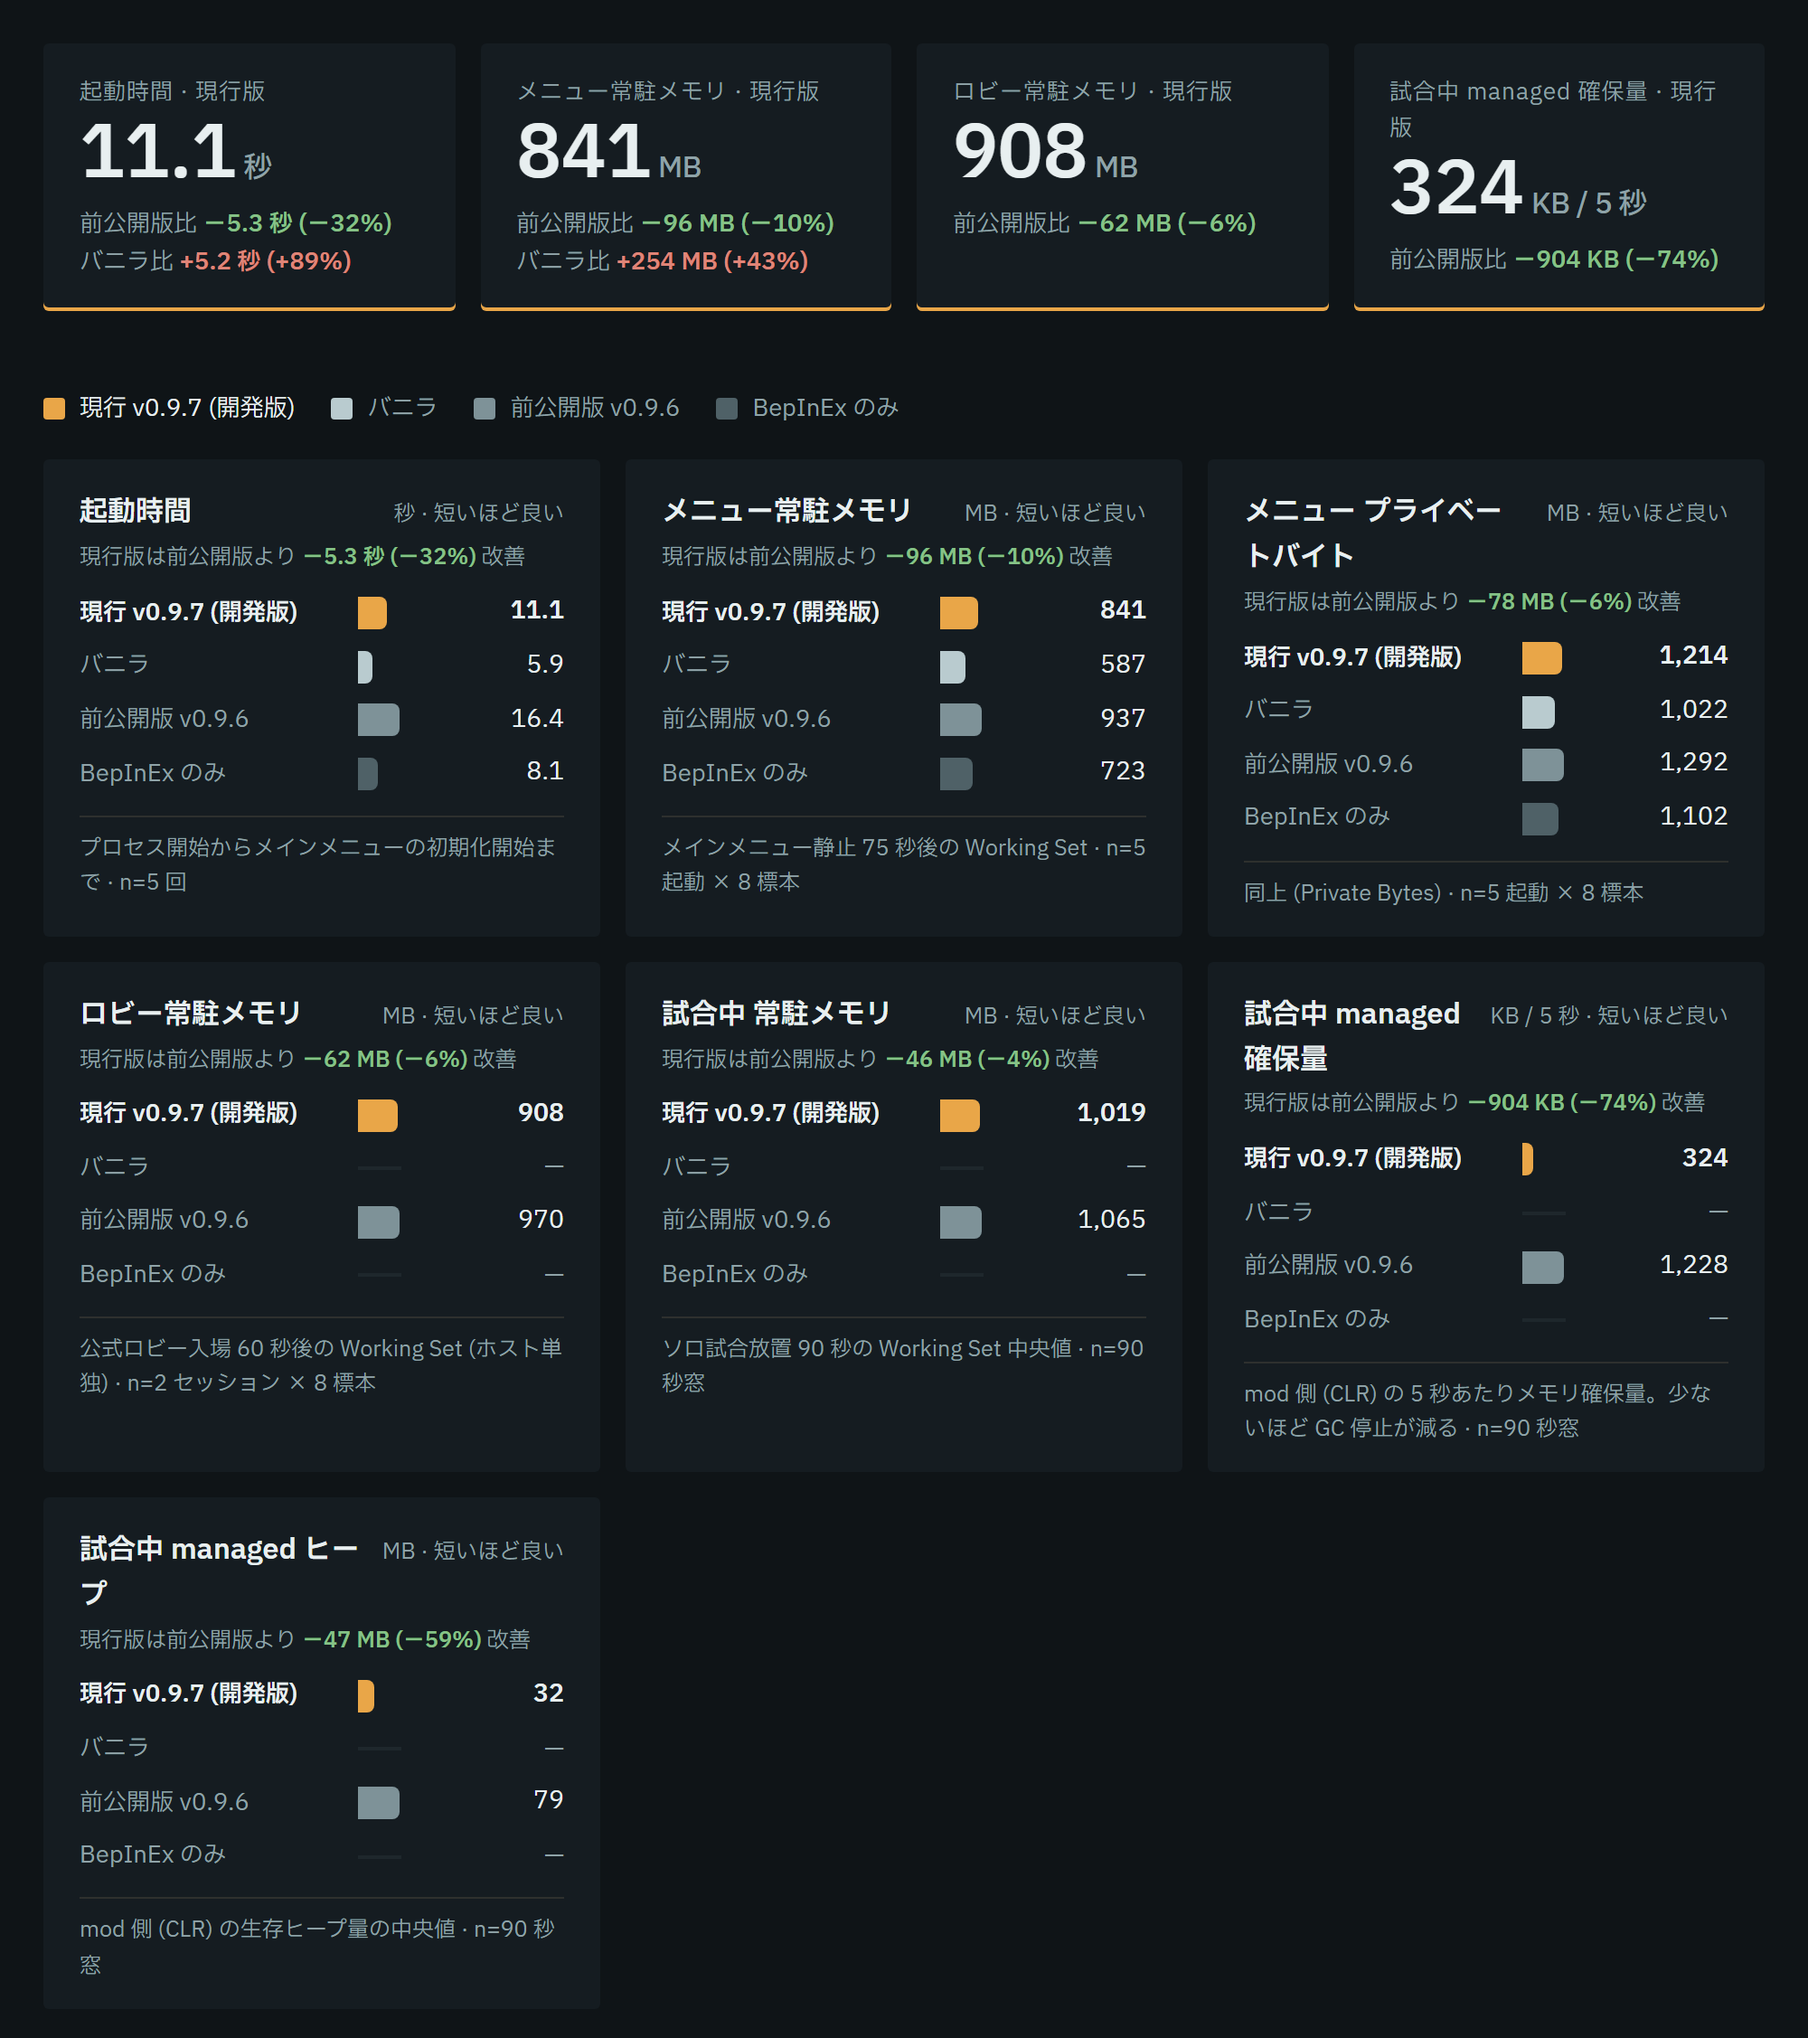
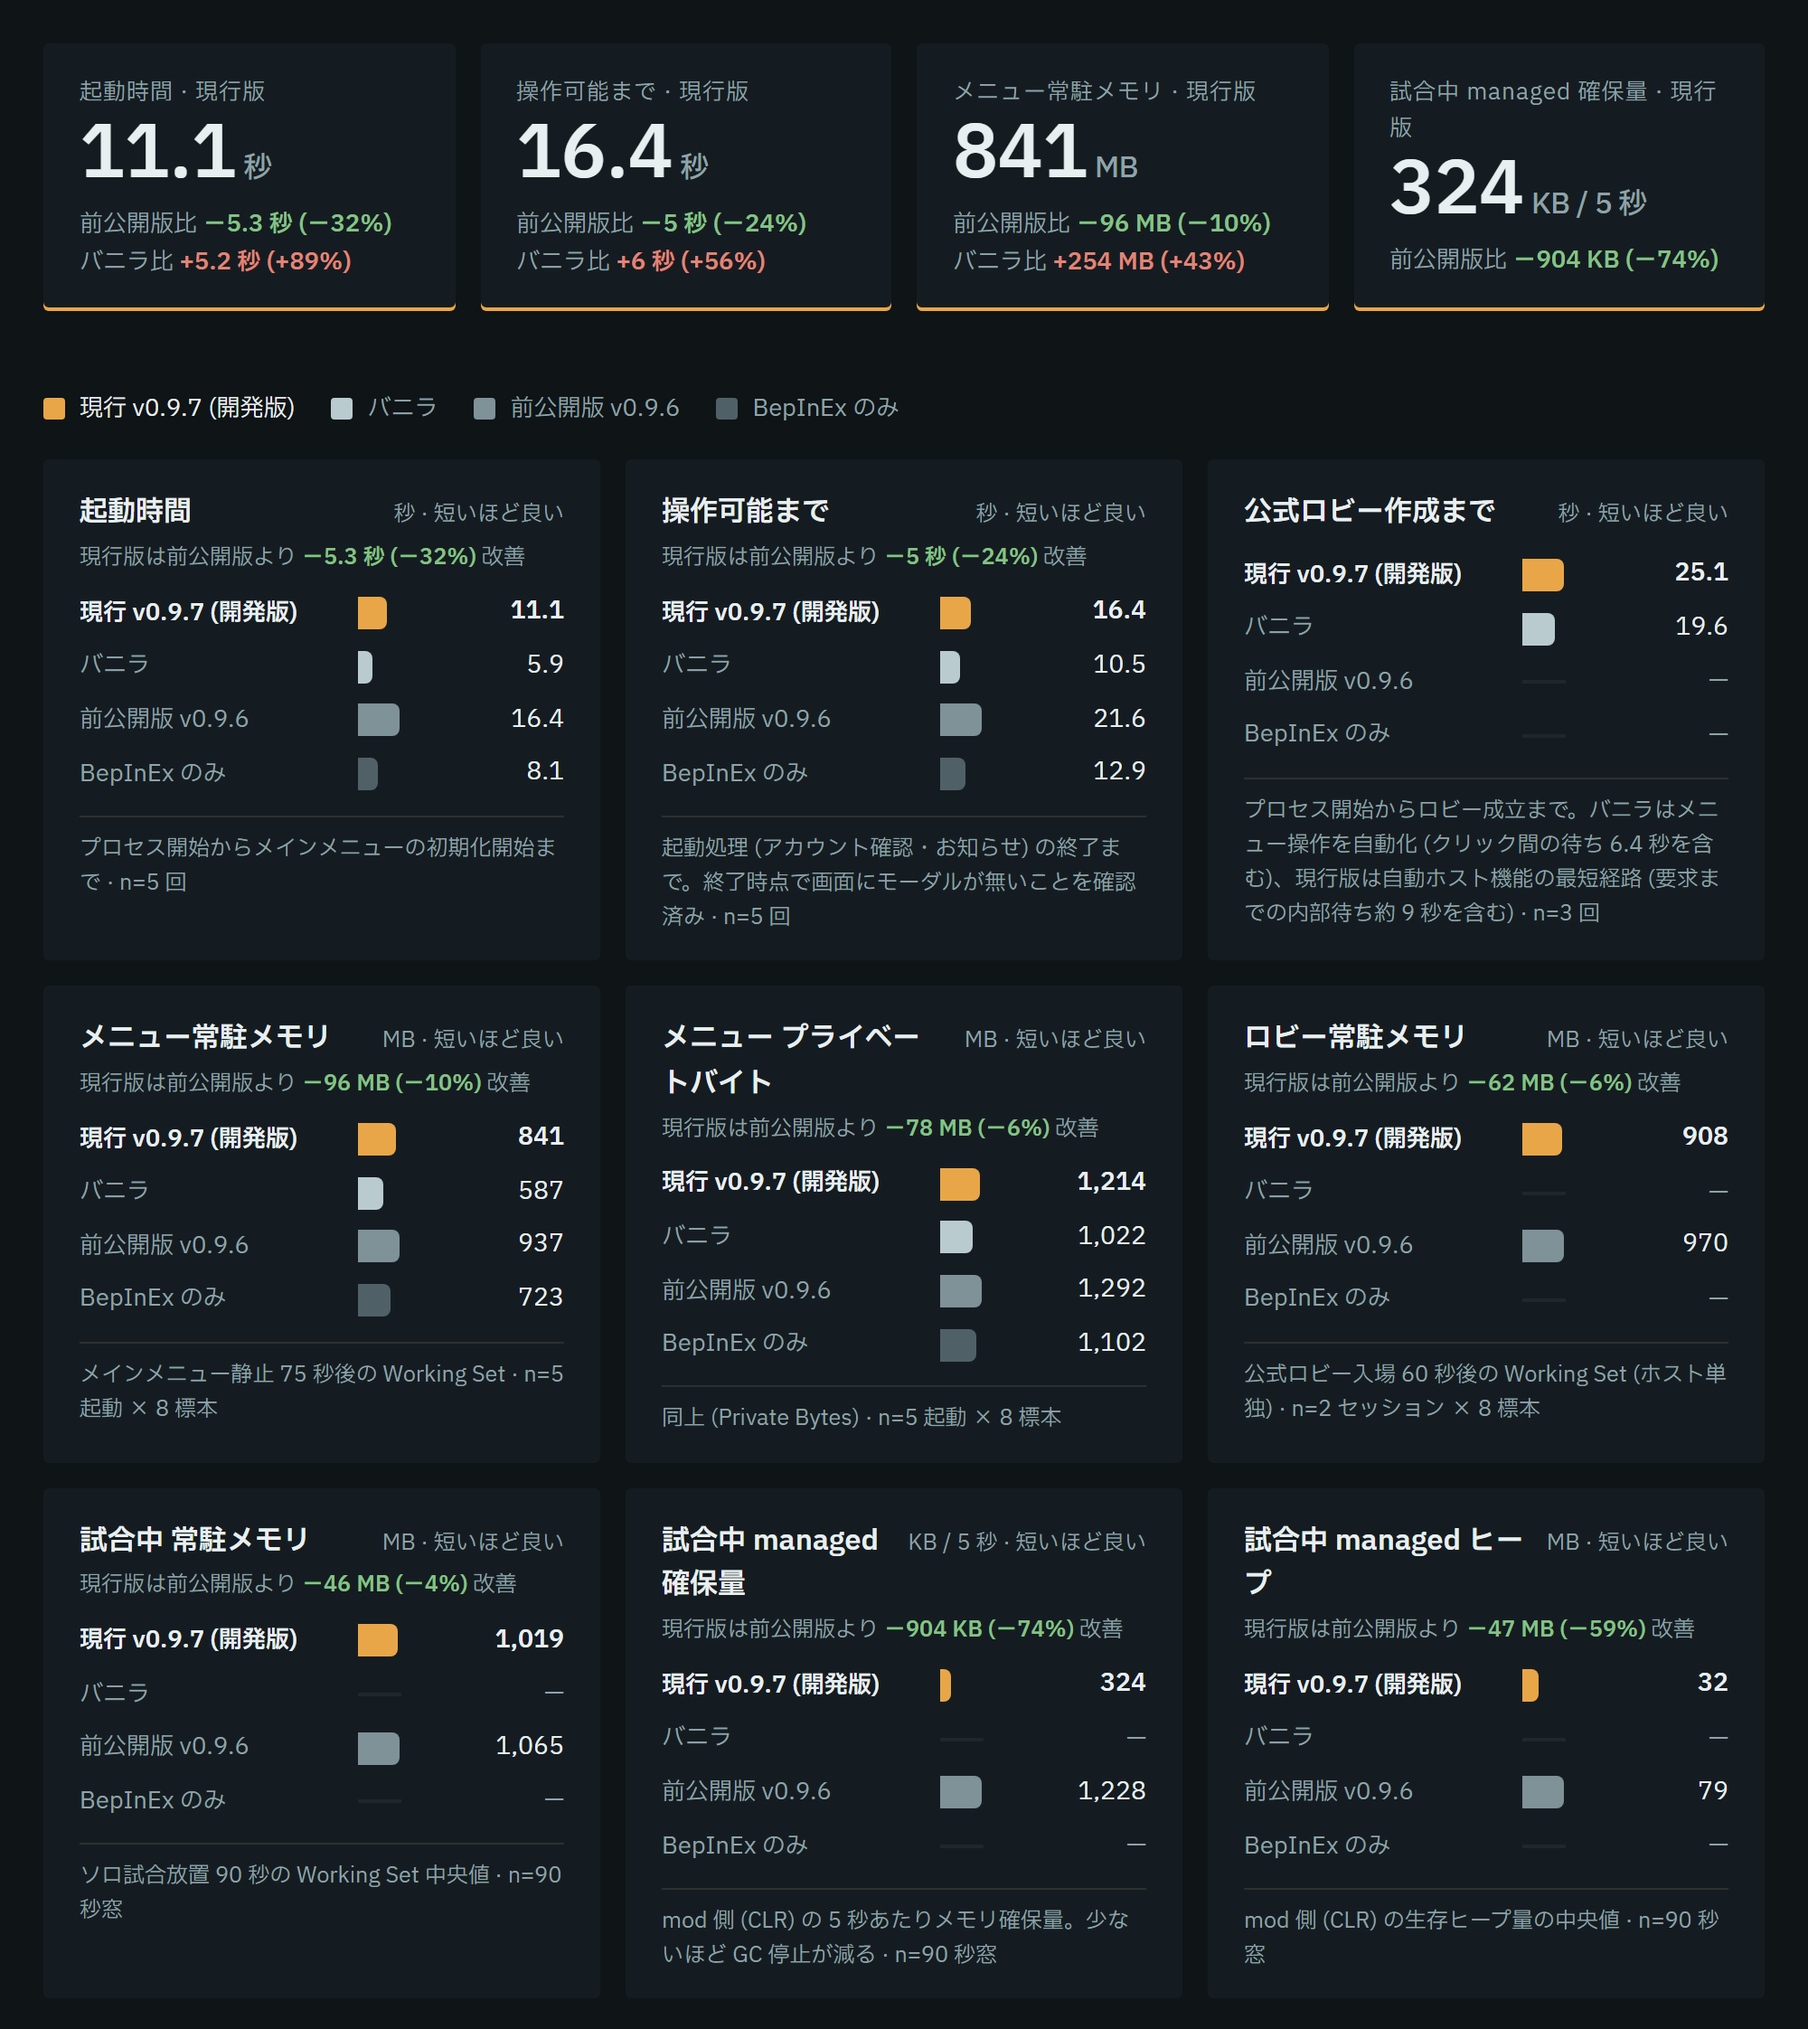
性能レポートに『操作可能まで』と『公式ロビー作成まで』の実測指標を補給しました、えっへん！

diff --git a/site/perf.html b/site/perf.html
@@ -134,6 +134,12 @@ const METRICS = [
   { key: 'boot',      group: '起動',   name: '起動時間',           unit: '秒',  fmt: v => v.toFixed(1), n: '5 回',
     desc: 'プロセス開始からメインメニューの初期化開始まで',
     v: { vanilla: 5.86, bepinex: 8.13, old: 16.36, current: 11.07 } },
+  { key: 'tti',       group: '起動',   name: '操作可能まで',         unit: '秒',  fmt: v => v.toFixed(1), n: '5 回',
+    desc: '起動処理 (アカウント確認・お知らせ) の終了まで。終了時点で画面にモーダルが無いことを確認済み',
+    v: { vanilla: 10.5, bepinex: 12.9, old: 21.6, current: 16.4 } },
+  { key: 'lobby',     group: '起動',   name: '公式ロビー作成まで',   unit: '秒',  fmt: v => v.toFixed(1), n: '3 回',
+    desc: 'プロセス開始からロビー成立まで。バニラはメニュー操作を自動化 (クリック間の待ち 6.4 秒を含む)、現行版は自動ホスト機能の最短経路 (要求までの内部待ち約 9 秒を含む)',
+    v: { vanilla: 19.6, bepinex: null, old: null, current: 25.1 } },
   { key: 'menu_ws',   group: 'メニュー', name: 'メニュー常駐メモリ', unit: 'MB', fmt: v => Math.round(v).toLocaleString(), n: '5 起動 × 8 標本',
     desc: 'メインメニュー静止 75 秒後の Working Set',
     v: { vanilla: 587, bepinex: 723, old: 937, current: 841 } },
@@ -167,6 +173,7 @@ const CONDITIONS = [
 const NOTES = [
   'Working Set は OS の裁量で ±15MB 程度揺れるため、この幅の差は有意ではありません。',
   '前公開版と現行版は Backrooms ロビー・BGM・カスタムマップなど機能を同じ既定設定で有効にしたまま計測しています。',
+  'ロビー作成までの時間はバニラの方が短く、差の大半は現行版がロビー作成要求を出すまでの内部待ちです (ログ上のサーバー応答は 0.2 秒)。',
   'バニラと BepInEx のみのロビー・試合中は、ホスト単独で自動再現する手段がないため計測対象外です。',
   '試合中のかくつき回数と FPS は前公開版の記録形式が異なり比較できないため掲載していません。',
 ];
@@ -193,7 +200,7 @@ const NOTES = [
   $('#lede').textContent = `同じ PC・同じ日に 4 条件を交互に起動して計測しました。現行版は前公開版と比べて起動が ${Math.abs(pct(b.current, b.old)).toFixed(0)}% 短く、メニューでの常駐メモリが ${Math.round(w.old - w.current)}MB 少なくなっています。バニラとの差は、mod を載せる土台 (BepInEx) の分を含めて残っています。`;
 
   // ---- tiles ----
-  const tileKeys = ['boot', 'menu_ws', 'lobby_ws', 'game_alloc'].filter(k => M[k].v.current != null);
+  const tileKeys = ['boot', 'tti', 'menu_ws', 'game_alloc'].filter(k => M[k].v.current != null);
   $('#tiles').innerHTML = tileKeys.map(k => {
     const m = M[k], cur = m.v.current;
     const dOld = fmtDelta(m, cur, m.v.old), dVan = fmtDelta(m, cur, m.v.vanilla);

diff --git a/README-EN.md b/README-EN.md
@@ -95,6 +95,8 @@ Even with the mod loaded, boot time and resident memory are kept as close to van
 | Metric | Vanilla | BepInEx only | Previous v0.9.6 | Current v0.9.7 (dev) |
 |---|---:|---:|---:|---:|
 | Boot time (s) | 5.9 | 8.1 | 16.4 | **11.1** (−33%) |
+| Time to interactive (s) | 10.5 | 12.9 | 21.6 | **16.4** (−24%) |
+| Time to hosted lobby (s) | 19.6 | — | — | 25.1 |
 | Menu resident memory (MB) | 587 | 723 | 937 | **841** (−96MB) |
 | Lobby resident memory (MB) | — | — | 970 | **908** |
 | In-game managed allocation (KB / 5 s) | — | — | 1,228 | **324** (−74%) |
@@ -102,7 +104,7 @@ Even with the mod loaded, boot time and resident memory are kept as close to van
 
 <p align="center"><img src=".github/perf-chart.png" alt="End K not performance comparison chart" width="90%"></p>
 
-Conditions and all metrics are in the **[performance report](https://waffle-ful.github.io/Aeterna-End-K-not/perf.html)** (Japanese). Values in parentheses are deltas versus the previous release. Vanilla lobby / in-game figures are not measured because there is no way to automate them.
+Conditions and all metrics are in the **[performance report](https://waffle-ful.github.io/Aeterna-End-K-not/perf.html)** (Japanese). Values in parentheses are deltas versus the previous release. Lobby time uses scripted menu clicks for vanilla and the auto-host feature for the current build; most of the gap is the current build's internal wait before it sends the create request. Vanilla lobby / in-game figures are not measured because there is no way to automate them.
 
 ## Role list
 
